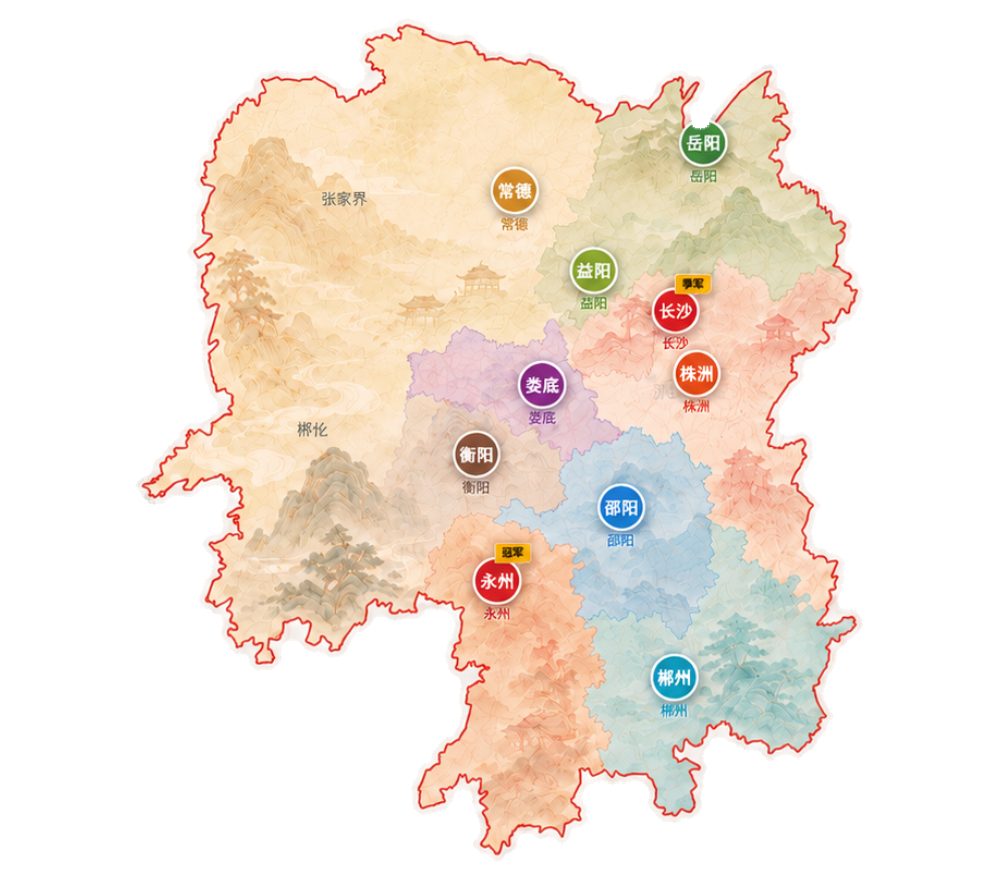
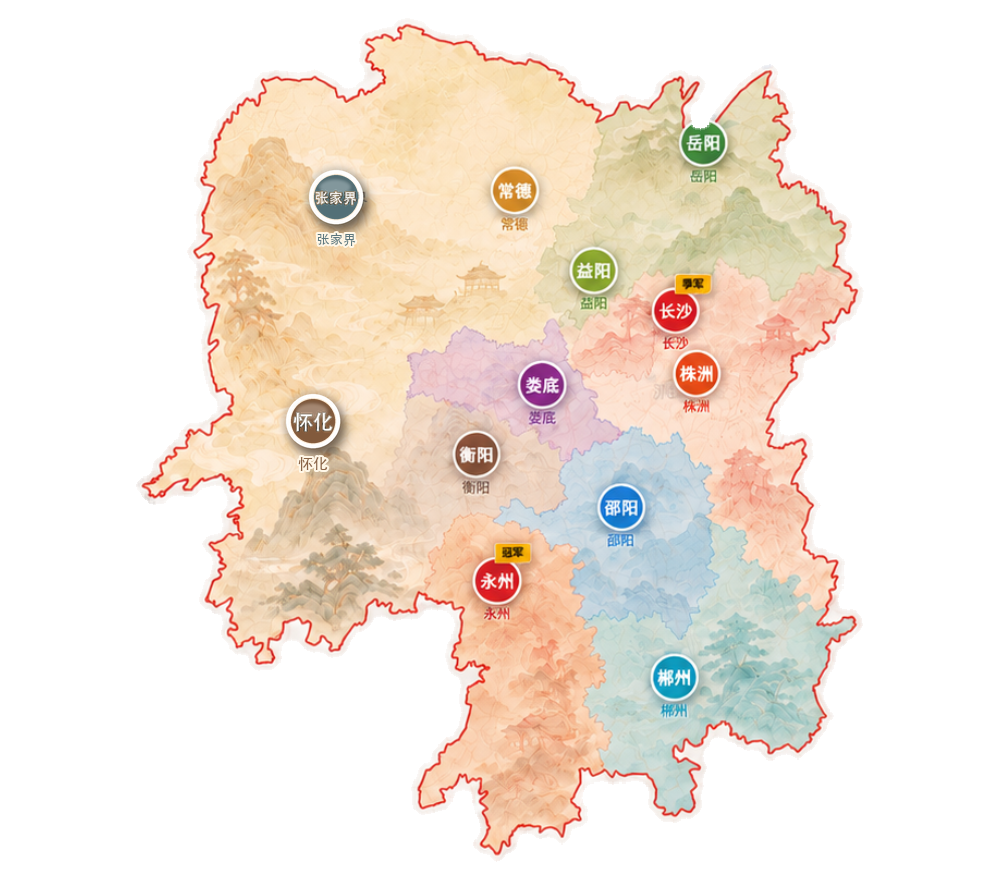
Fix ancient transition city labels

Changed region(s): [[0.279, 0.4295, 0.372, 0.5523], [0.31, 0.1841, 0.372, 0.3068]]

diff --git a/client/src/components/HunanMap.tsx b/client/src/components/HunanMap.tsx
@@ -67,7 +67,7 @@ const CHANGSHA_DEMO_POIS = h5Pois.filter((poi) => poi.city === '长沙');
 const TIANDITU_TOKEN = import.meta.env.VITE_TIANDITU_TOKEN ?? '';
 const TIANDITU_SUBDOMAINS = ['0', '1', '2', '3', '4', '5', '6', '7'];
 const FALLBACK_BASE_TILE_URL = 'https://webrd0{s}.is.autonavi.com/appmaptile?lang=zh_cn&size=1&scale=1&style=8&x={x}&y={y}&z={z}';
-const MAP_SWITCH_ASSET_VERSION = '20260526-smooth-2';
+const MAP_SWITCH_ASSET_VERSION = '20260610-city-icons';
 const mapSwitchAssetUrl = (fileName: string) => `${assetPath(`assets/${fileName}`)}?v=${MAP_SWITCH_ASSET_VERSION}`;
 const MAP_SWITCH_PHOENIX_IMAGE_URL = mapSwitchAssetUrl('map-transition-phoenix-cutout.png');
 const MAP_SWITCH_SOFT_IMAGE_URL = mapSwitchAssetUrl('map-transition-soft-cutout.png');
